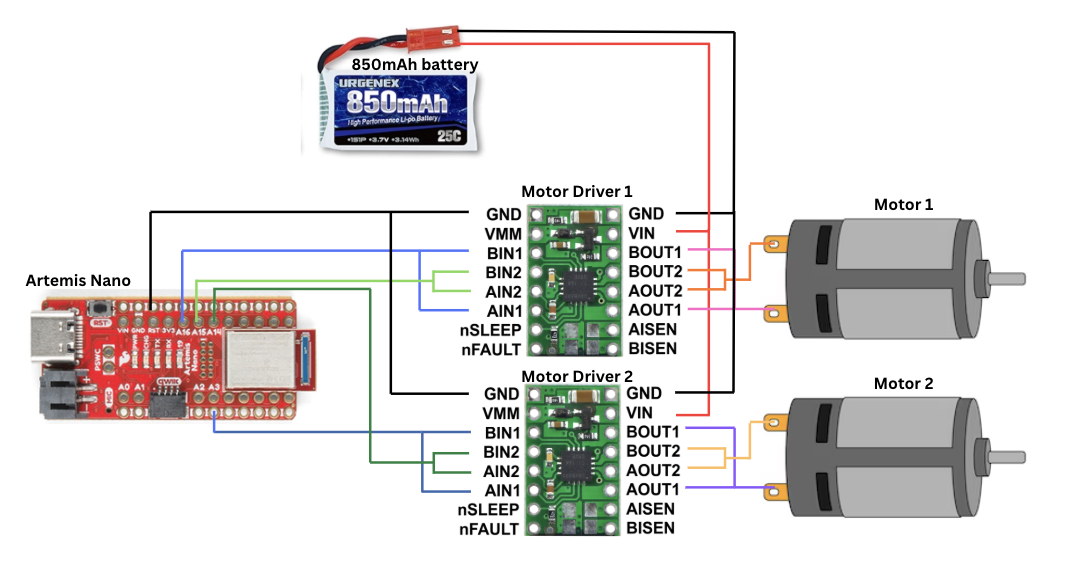
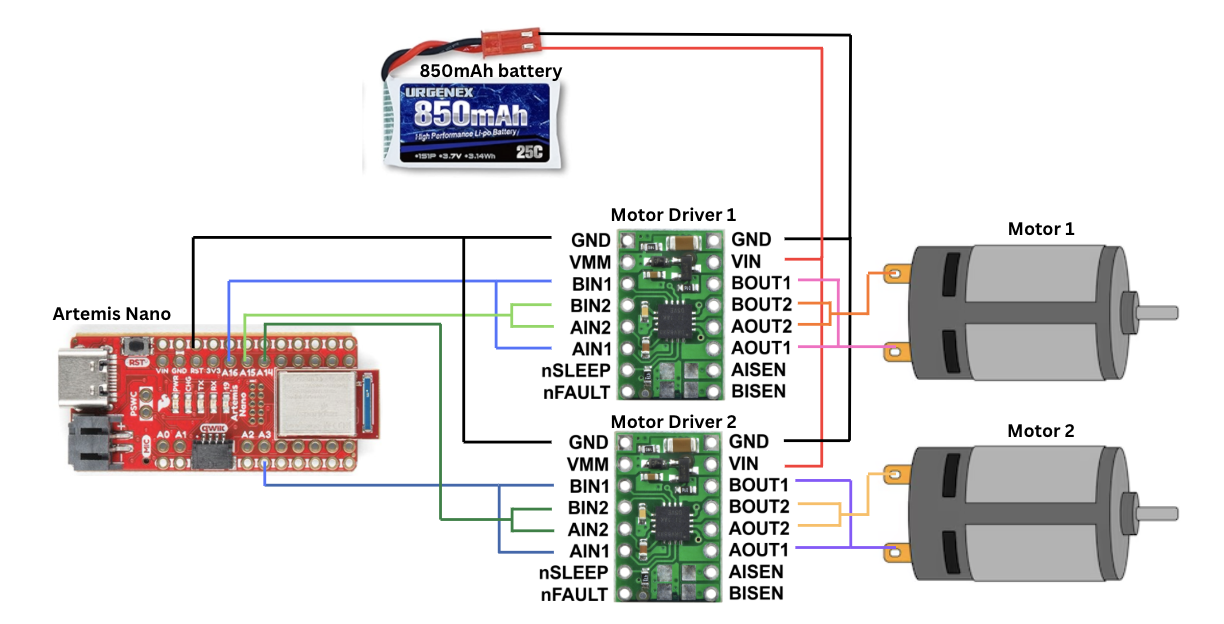
edited lab 4

Changed region(s): [[0.0, 0.0298, 0.9778, 0.9842]]

diff --git a/lab4.md b/lab4.md
@@ -51,7 +51,7 @@ The square wave recorded shows a duty cycle of 50%.
   <img src="assets/img_lab4/osc.png" alt="Wiring Diagram" width="400"/>
 </div>
 
-The H-bridge in the motor driver connects the motor to the supply voltage during the HIGH portion of the output square wave and disconnects it during the LOW portion. Increasing the duty cycle directly increases the average voltage and power delivered to the motor. 
+The H-bridge in the motor driver connects the motor to the supply voltage during the HIGH portion of the output square wave and disconnects it during the LOW portion. Increasing the duty cycle directly increases the average voltage and power delivered to the motor, causing them to spin faster. 
 
 ### Testing with external power supply 
 
@@ -139,7 +139,7 @@ I obtained a calibration factor of 2.3. A video of the car moving in a straight 
 
 <div style="text-align: center;">
   <iframe width="560" height="315"
-    src="https://www.youtube.com/embed/6CKLXg8hucE"
+    src="https://www.youtube.com/embed/hPMHl9oVOG4"
     title="Stunt"
     frameborder="0"
     allowfullscreen>
@@ -173,7 +173,7 @@ I tuned `running_pwm` until the motors could just continue coasting, and obtaine
 
 <div style="text-align: center;">
   <iframe width="560" height="315"
-    src="https://www.youtube.com/embed/hPMHl9oVOG4"
+    src="https://www.youtube.com/embed/6CKLXg8hucE"
     title="Coasting"
     frameborder="0"
     allowfullscreen>
